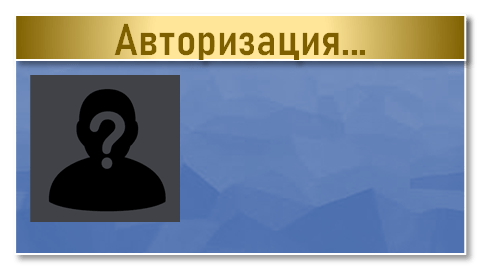
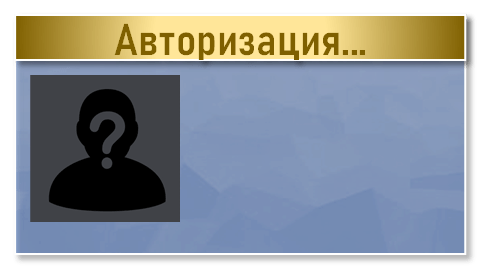
123

diff --git a/index.js b/index.js
@@ -649,7 +649,7 @@ class lb_player_card_class extends PIXI.Container{
 
 		this.avatar=new PIXI.Sprite();
 		this.avatar.x=43;
-		this.avatar.y=13;
+		this.avatar.y=14;
 		this.avatar.width=this.avatar.height=44;
 
 
@@ -657,7 +657,6 @@ class lb_player_card_class extends PIXI.Container{
 		this.name.tint=0xcceeff;
 		this.name.x=105;
 		this.name.y=22;
-
 
 		this.rating=new PIXI.BitmapText('', {fontName: 'mfont',fontSize: 25,align: 'center'});
 		this.rating.x=298;
@@ -3863,7 +3862,7 @@ lb={
 		for (let place in top){
 			const target=top[place];
 			const leader=leaders_array[place];
-			target.t_name.set2(leader.name,place>2?200:130);
+			target.t_name.set2(leader.name,place>2?190:130);
 			target.t_rating.text=leader.rating;			
 		}
 		
